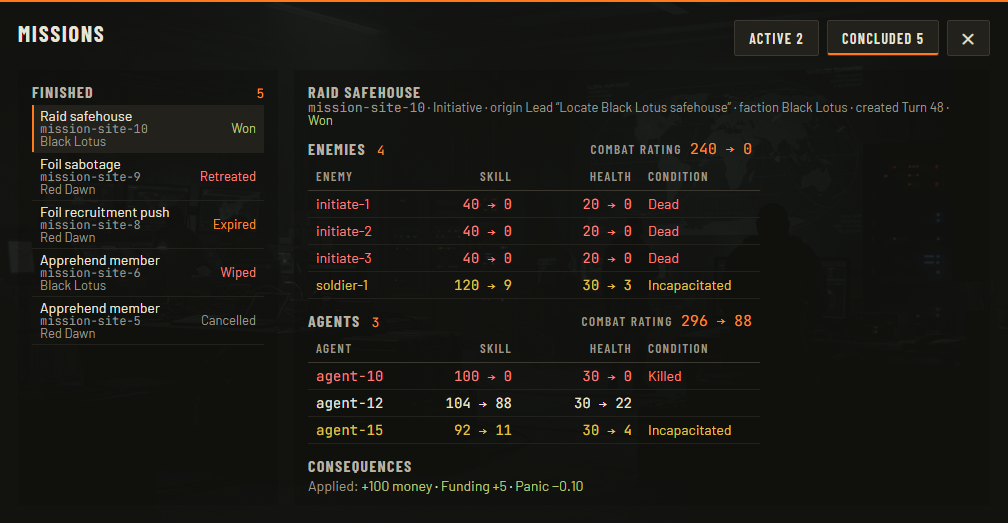
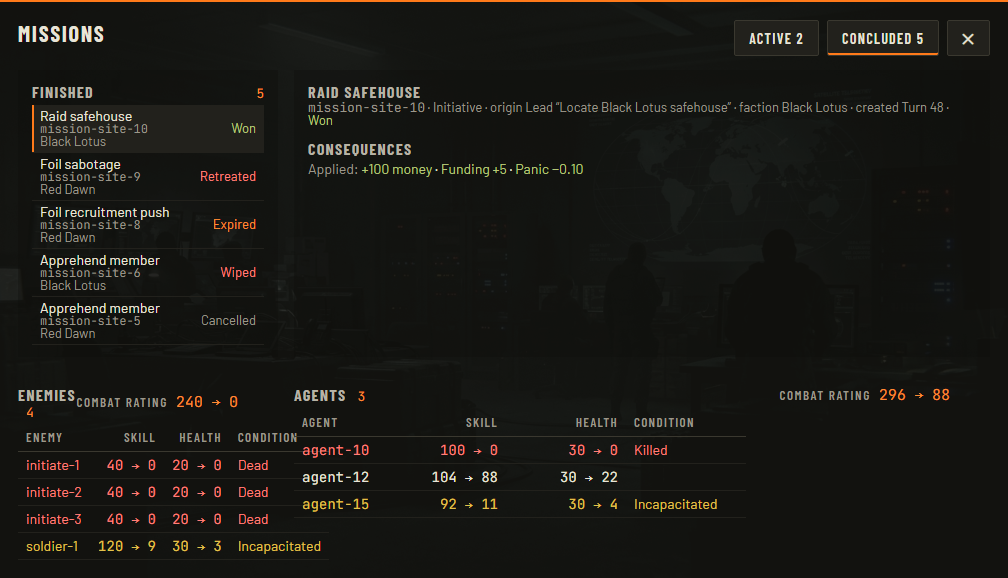
Show a Mission site's Consequences first and count its Enemies by EnemyArchetype
- Missions View: the selected Mission site shows its Consequences before its Enemies, and its Enemies as one line per EnemyArchetype, e.g. "17 Initiates · 80 CR each", in ascending order of one Enemy's Combat rating, instead of one row per Enemy with its skill, health, and damage.
- Graphical User Interface: the EnemyArchetype order, the authored order of the EnemyArchetype GDR file, is the canonical order of EnemyArchetypes wherever no rule gives another, and breaks ties of the Mission site's Enemy lines.
- Redraw both Missions View Artboards.

diff --git a/docs/specs/design/ui/screens/missions-view.md b/docs/specs/design/ui/screens/missions-view.md
@@ -30,8 +30,8 @@ When the Missions View opens, the first Active Mission site is selected, unless 
 The middle pane shows the selected Mission site:
 
 - Its MissionSiteArchetype's `name` and its Instance ID, its kind, its origin, i.e. the [Lead](../../mechanics/domain-model.md#leads-investigations-mission-sites-and-missions) of the [Investigation](../../mechanics/domain-model.md#leads-investigations-mission-sites-and-missions) that created an [Initiative Mission site](../../mechanics/domain-model.md#leads-investigations-mission-sites-and-missions) or the [Faction operation level](../../mechanics/factions.md#glossary) that created a [Response Mission site](../../mechanics/domain-model.md#leads-investigations-mission-sites-and-missions), its target Faction under the Label "Faction", never "Target", because a Response Mission site is the Faction's own operation rather than a target the [Agency](../../mechanics/domain-model.md#agency-and-agents) chose, its Turn created, its Turns until expiration while it is Active, under [Mission site properties](../../mechanics/missions.md#mission-site-properties) in Missions, and its lifecycle state, or for a Mission site in a final state the final state it reached, under [Final state](#final-state).
-- Its Enemies, in their order, one row each with the EnemyArchetype's `name`, [base skill](../../mechanics/agents-spec.md#combatant-attributes), [current health](../../mechanics/agents-spec.md#combatant-attributes) against [base health](../../mechanics/agents-spec.md#combatant-attributes), and [base weapon damage](../../mechanics/agents-spec.md#combatant-attributes), under [Player-visible information](../../mechanics/combat.md#player-visible-information) in Combat, and the [Combat rating](../../mechanics/combat.md#combat-rating) of the Enemies' side beside the Enemies heading, under [Combat ratings](#combat-ratings).
-- Its [Consequences](../../mechanics/domain-model.md#leads-investigations-mission-sites-and-missions), under [Consequences](../../mechanics/missions.md#consequences) in Missions, each change written as what it does, e.g. "+60 money", "Panic −0.50", "Red Dawn Eliminated", or "Campaign lost", and coloured under [Consequences](../visual-design.md#consequences) in Visual Design. While the Mission site is Active or Deployed, they are its Consequences for each final state: what a Won Mission changes, and what a Lost Mission or an Expired Mission site changes. Once it is in a final state, they are only the Consequences that applied, after the Label "Applied", from the [History entry](../../foundation/world-history.md#glossary) of the Turn its final state was reached in, under [Turn report](../../mechanics/missions.md#turn-report) in Missions, or "none" when nothing applied, e.g. for a Cancelled Mission site or a Lost Initiative Mission.
+- Its [Consequences](../../mechanics/domain-model.md#leads-investigations-mission-sites-and-missions), under [Consequences](../../mechanics/missions.md#consequences) in Missions, each change written as what it does, e.g. "+60 money", "Panic −0.50", "Red Dawn Eliminated", or "Campaign lost", and coloured under [Consequences](../visual-design.md#consequences) in Visual Design. They come before the Enemies, because what a Mission site is worth decides whether to answer it before who waits there does. While the Mission site is Active or Deployed, they are its Consequences for each final state: what a Won Mission changes, and what a Lost Mission or an Expired Mission site changes. Once it is in a final state, they are only the Consequences that applied, after the Label "Applied", from the [History entry](../../foundation/world-history.md#glossary) of the Turn its final state was reached in, under [Turn report](../../mechanics/missions.md#turn-report) in Missions, or "none" when nothing applied, e.g. for a Cancelled Mission site or a Lost Initiative Mission.
+- Its Enemies, under the Enemies heading with the [Combat rating](../../mechanics/combat.md#combat-rating) of the Enemies' side beside it, under [Combat ratings](#combat-ratings), counted by EnemyArchetype rather than listed one by one, so that a Mission site of many Enemies stays short: one line for each EnemyArchetype among them, with the number of its Enemies, its `name`, followed by "s" when that number is above 1, and the [Combat rating](../../mechanics/combat.md#combatant-condition-in-a-combat) of one of them, e.g. "17 Initiates · 80 CR each" or "1 Commander · 300 CR". Enemies of one EnemyArchetype have equal values until a Combat changes them, so one Combat rating stands for all of them. The lines are in ascending order of that Combat rating, and those of equal Combat rating in the EnemyArchetype order, under [EnemyArchetype order](../gui.md#enemyarchetype-order) in Graphical User Interface. Their skill, health, and weapon damage are left out: the Compendium article of each EnemyArchetype gives them.
 
 For a Deployed Mission site, the pane also shows its Mission with its Team sent, and a row under the Team sent shows the [Combat rating](../../mechanics/combat.md#combatant-condition-in-a-combat) of its [Current team](../../mechanics/domain-model.md#leads-investigations-mission-sites-and-missions), which is its Team sent, under [Combat ratings](#combat-ratings).
 
@@ -39,13 +39,13 @@ For a Deployed Mission site, the pane also shows its Mission with its Team sent,
 
 A Concluded Mission site shows what its Combat did to every participant, so that the Player sees, Turns later, what each Mission cost and won. Its values come from the reduced [Combat report](../../mechanics/combat.md#combat-report) in the History entry of the Turn its Mission's Combat was fought in, never from the participants' current values, which have changed since, and the [Combat report](turn-report-view.md#combat-report) in full stays in the Turn Report View for as long as it is kept.
 
-In place of the Enemies table above and of its Mission's Team sent, the pane shows two tables of participants, the Enemies first and then the Agents of the Team sent, under [Tables](../visual-design.md#tables) in Visual Design, each in its side's fixed order and each under its heading with its side's Combat rating at Combat start and at Combat end, under [Combat ratings](#combat-ratings), e.g. "COMBAT RATING 240 → 0". Each table has these columns, in this order, each under its header:
+In place of the Enemies lines above and of its Mission's Team sent, below its Consequences, the pane shows two tables of participants, the Enemies first and then the Agents of the Team sent, under [Tables](../visual-design.md#tables) in Visual Design, each in its side's fixed order and each under its heading with its side's Combat rating at Combat start and at Combat end, under [Combat ratings](#combat-ratings), e.g. "COMBAT RATING 240 → 0". Each table has these columns, in this order, each under its header:
 
 | Column | What it shows |
 | --- | --- |
 | Enemy or [Agent](../../mechanics/domain-model.md#agency-and-agents) | The [Enemy](../../mechanics/domain-model.md#combat)'s [Enemy label](../gui.md#glossary), or the Agent's Instance ID, which opens the Agent's details, under [Agent details](agents-view.md#agent-details) in Agents View. |
 | Skill | Its [effective skill](../../mechanics/agents-spec.md#combatant-attributes) at Combat start and at Combat end, e.g. "40 → 12". |
-| Health | Its current health at Combat start and at Combat end, e.g. "20 → 0". |
+| Health | Its [current health](../../mechanics/agents-spec.md#combatant-attributes) at Combat start and at Combat end, e.g. "20 → 0". |
 | Condition | Its final condition: "[Killed](../../mechanics/agents-spec.md#agent-statuses)" for a dead Agent, "Dead" for a dead Enemy, "[Incapacitated](../../mechanics/combat.md#combatant-condition-in-a-combat)", or nothing for one [able to fight](../../mechanics/combat.md#combatant-condition-in-a-combat). |
 
 The row of a participant whose final condition is dead is in Danger, and the row of an Incapacitated one is in Warning, under [Colours](../visual-design.md#colours) in Visual Design, on both sides alike, as the decisive words of the [Combat log](../../mechanics/combat.md#combat-rounds-and-results) name both, under [Combat log colours](turn-report-view.md#combat-log-colours) in Turn Report View: they are the end states the Player looks for first. A participant able to fight at Combat end keeps Text.
@@ -68,13 +68,13 @@ The Deploy button is the pane's primary button. It makes one `deployAgents` [Pla
 
 The Missions View shows three Combat ratings, under [Combat rating](../../mechanics/combat.md#combat-rating) in Combat: of the selected Mission site's Enemies, of a Deployed Mission's Current team, and of the checked Agents in the deployment pane; and, for a Concluded Mission site, the Combat rating of each side at Combat start and at Combat end, as its [Combat report](../../mechanics/domain-model.md#combat) records them. Each Combat rating weighs every [Combatant](../../mechanics/domain-model.md#combat)'s effective skill by its [rating factor](../../mechanics/combat.md#combatant-condition-in-a-combat) and its side's size, so that a side of Agents counts what the [Agency](../../mechanics/domain-model.md#agency-and-agents)'s [Weapon damage Upgrades](../../mechanics/economy-and-upgrades.md#glossary), [Max health Upgrades](../../mechanics/economy-and-upgrades.md#glossary), and [Armor Upgrades](../../mechanics/economy-and-upgrades.md#glossary) add, and none is ever shown as a [base Combat rating](../../mechanics/combat.md#combatant-condition-in-a-combat), which only the [Agent details](agents-view.md#agent-details) show, so that the Player weighs exactly the values the Combat weighs when its team considers retreating. The Player decides whom to send by comparing them, so each stands out from the figures around it in one shared style: the Label "Combat rating" followed by the value in the Figure style and Accent text, under [Colours](../visual-design.md#colours) in Visual Design, e.g. "COMBAT RATING 120".
 
-The Enemies' Combat rating sits on the line of the Enemies heading, centred on it under [Alignment](../visual-design.md#alignment) in Visual Design, and ends at the right edge of the Enemies table, not of the pane, so that its last character lines up with the right-aligned figures of the table's last column, the base weapon damage. The Combat ratings of a Concluded Mission site sit the same way on the lines of the headings of its two participant tables. On a wide pane the spare width lies to the right of both the table and its Combat rating.
+The Enemies' Combat rating sits on the line of the Enemies heading, centred on it under [Alignment](../visual-design.md#alignment) in Visual Design, and ends at the right edge of the Enemies lines, not of the pane, so that its last character lines up with the end of the widest line. The Combat ratings of a Concluded Mission site sit the same way on the lines of the headings of its two participant tables, ending at the right edge of each table, so that their last characters line up with the table's last column. On a wide pane the spare width lies to the right of both the Enemies and their Combat rating.
 
 # Artboard
 
-![Missions View panel Artboard: Active Mission sites and the Missions deployed this Turn on the left, the selected Mission site with its Enemies and Consequences in the middle, and the deployment pane with checked Agents, Transport cap usage, their Combat rating with its share of the Enemies' one, and the Deploy button on the right](../../../../images/artboards/missions-view.png)
+![Missions View panel Artboard: Active Mission sites and the Missions deployed this Turn on the left, the selected Mission site in the middle with its Consequences and then its Enemies, counted by EnemyArchetype in ascending order of Combat rating, one line each with the Combat rating of one of them, and the deployment pane with checked Agents, Transport cap usage, their Combat rating with its share of the Enemies' one, and the Deploy button on the right](../../../../images/artboards/missions-view.png)
 
-![Missions View panel Artboard with the toggle on the Mission sites in a final state: each with its Instance ID, target Faction, and final state, Won, Retreated, Expired, Wiped, or Cancelled, coloured by whom it favours; and the selected Concluded Mission site, whose Enemies and Agents tables show each participant's effective skill and current health at Combat start and at Combat end, with dead rows in Danger and Incapacitated rows in Warning, each side's Combat rating at Combat start and at Combat end, and the Consequences that applied](../../../../images/artboards/missions-view-concluded.png)
+![Missions View panel Artboard with the toggle on the Mission sites in a final state: each with its Instance ID, target Faction, and final state, Won, Retreated, Expired, Wiped, or Cancelled, coloured by whom it favours; and the selected Concluded Mission site, with the Consequences that applied above its Enemies and Agents tables, which show each participant's effective skill and current health at Combat start and at Combat end, with dead rows in Danger and Incapacitated rows in Warning, and each side's Combat rating at Combat start and at Combat end](../../../../images/artboards/missions-view-concluded.png)
 
 The Missions View shows its [Background artwork](../visual-design.md#background-artwork), a command center, behind its panes, as the [Artboards](../visual-design.md#glossary) show.
 

diff --git a/docs/specs/design/ui/gui.md b/docs/specs/design/ui/gui.md
@@ -114,6 +114,10 @@ A value that a Compendium article inserts for a [Placeholder](../mechanics/compe
 
 A Decimal quantity is turned into its text from its whole number of hundredths, without a binary floating-point number, under [Decimal quantities](../foundation/numbers.md#decimal-quantities) in Numbers.
 
+# EnemyArchetype order
+
+The Player meets the same few kinds of Enemy everywhere, so the GUI lists them in one canonical order, from the weakest to the strongest as the Game designer wrote them: the EnemyArchetype order is the order of the EnemyArchetypes in their GDR file, as authored, under [GDR file layout](../foundation/game-data-records.md#gdr-file-layout) in Game Data Records, e.g. Initiate, Operative, Handler, and so on up to Cult leader. Wherever the GUI lists EnemyArchetypes, or groups Enemies by EnemyArchetype, in an order that no rule of its own gives, it uses the EnemyArchetype order; and a rule that gives an order of its own uses it to break ties, e.g. the Enemies of a Mission site under [Selected Mission site](screens/missions-view.md#selected-mission-site) in Missions View.
+
 # Enemy labels
 
 The Player meets Enemies only a few at a time, at one [Mission site](../mechanics/domain-model.md#leads-investigations-mission-sites-and-missions), and tells them apart by what they are, so the GUI shows every Enemy by its Enemy label, never by its [Instance ID](../foundation/campaign-instances.md#glossary), which numbers every Enemy of the Campaign and so says nothing about the Mission site at hand. The Enemy label is the `name` of the Enemy's EnemyArchetype in lower case, with each space replaced by a hyphen, then a hyphen and the Enemy's number: its position, counted from 1, among the Enemies of the same EnemyArchetype in its Mission site's list of Enemies, under [Fixed order of each side](../mechanics/combat.md#fixed-order-of-each-side) in Combat. Each EnemyArchetype numbers its own Enemies, and each Mission site starts again from 1, whatever the Instance IDs and whatever earlier Mission sites held. An Enemy label is unique only within its Mission site, so wherever an Enemy is named outside the context of its Mission site, e.g. in the Killed by column of the [Memorial](screens/agents-view.md#memorial), its Mission site is named beside it, there in the Where column.
